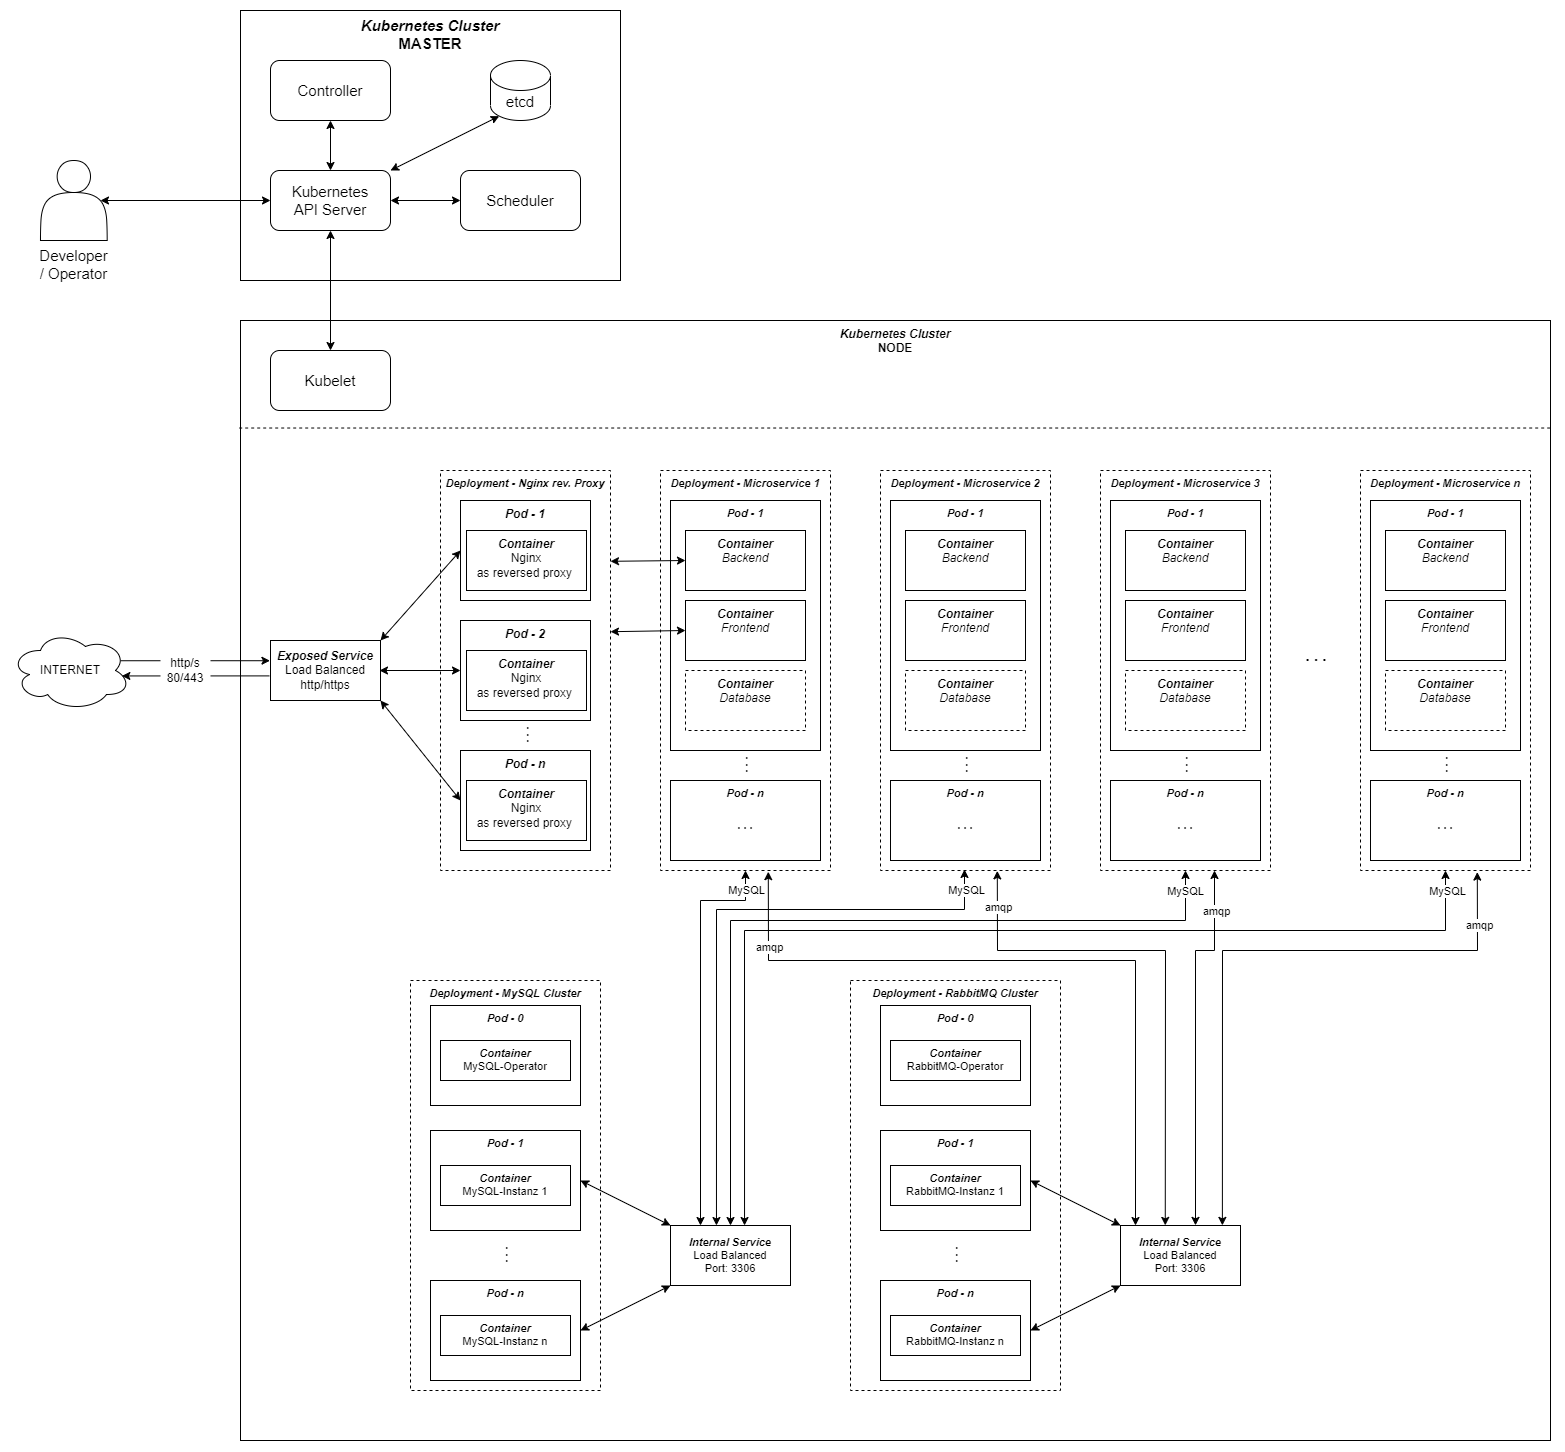
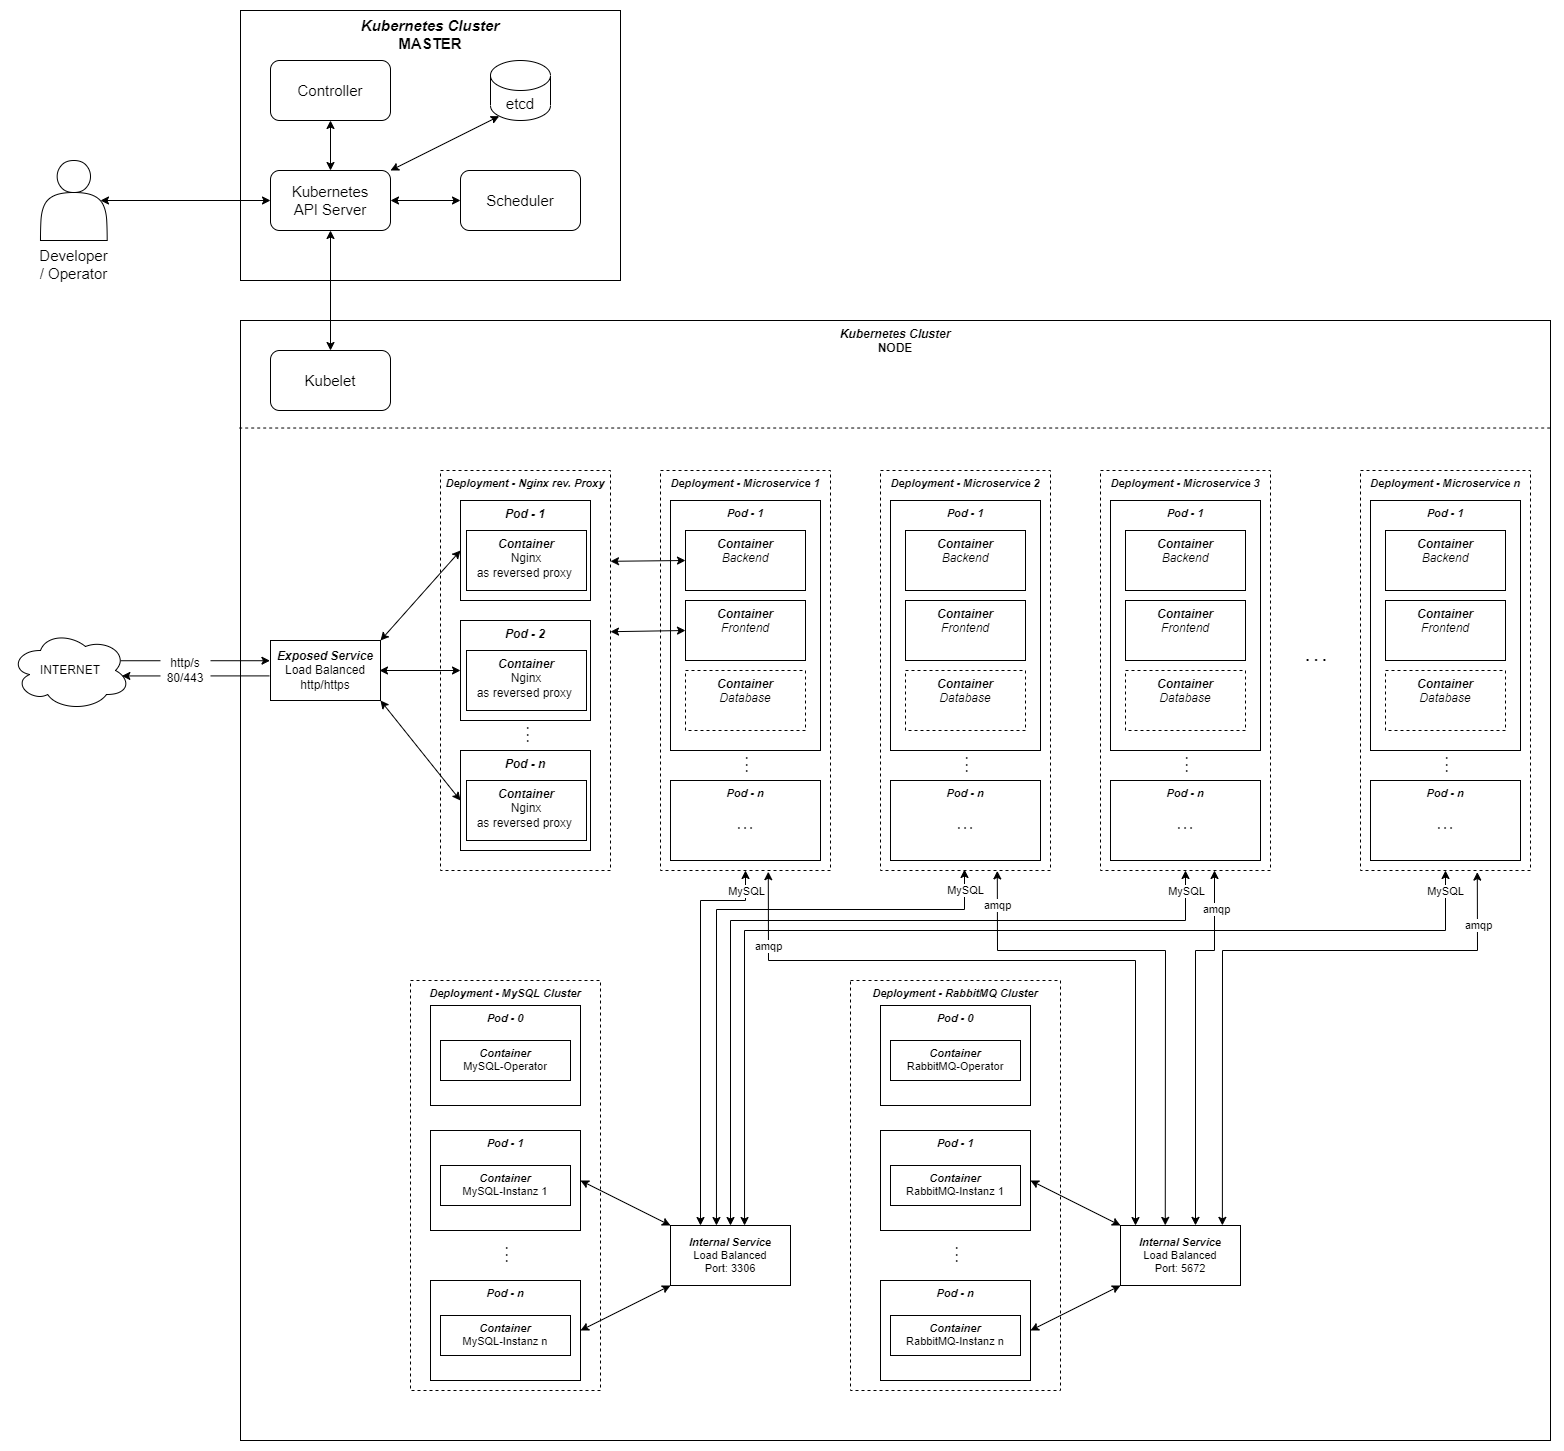
Fixed wrong port in image

diff --git a/_einleitung/projektuebersicht.md b/_einleitung/projektuebersicht.md
@@ -100,27 +100,27 @@ Alle Events, die über RabbitMQ gesendet werden, müssen in einem vorgegebenen J
 
 - Externe Qualitätsanforderungen (z.B. Performance, Sicherheit, Zuverlässigkeit, Benutzerfreundlichkeit)
 
-Qualitätsmerkmal | sehr gut | gut | normal | nicht relevant
----|---|---|---|---
-**Zuverlässigkeit** | | | | |
-Fehlertoleranz |X|-|-|-|
-Wiederherstellbarkeit |X|-|-|-|
-Ordnungsmäßigkeit |X|-|-|-|
-Richtigkeit |X|-|-|-|
-Konformität |-|X|-|-|
-**Benutzerfreundlichkeit** | | | | |
-Installierbarkeit |-|-|X|-|
-Verständlichkeit |X|-|-|-|
-Erlernbarkeit |-|X|-|-|
-Bedienbarkeit |-|X|-|-|
-**Performance** | | | | |
-Zeitverhalten |-|-|X|-|
-Effizienz|-|-|-|X|
-**Sicherheit** | | | | |
-Analysierbarkeit |X|-|-|-|
-Modifizierbarkeit |-|-|-|X|
-Stabilität |X|-|-|-|
-Prüfbarkeit |X|-|-|-|
+| Qualitätsmerkmal           | sehr gut | gut | normal | nicht relevant |
+|----------------------------|----------|-----|--------|----------------|
+| **Zuverlässigkeit**        |          |     |        |                |
+| Fehlertoleranz             | X        | -   | -      | -              |
+| Wiederherstellbarkeit      | X        | -   | -      | -              |
+| Ordnungsmäßigkeit          | X        | -   | -      | -              |
+| Richtigkeit                | X        | -   | -      | -              |
+| Konformität                | -        | X   | -      | -              |
+| **Benutzerfreundlichkeit** |          |     |        |                |
+| Installierbarkeit          | -        | -   | X      | -              |
+| Verständlichkeit           | X        | -   | -      | -              |
+| Erlernbarkeit              | -        | X   | -      | -              |
+| Bedienbarkeit              | -        | X   | -      | -              |
+| **Performance**            |          |     |        |                |
+| Zeitverhalten              | -        | -   | X      | -              |
+| Effizienz                  | -        | -   | x      | -              |
+| **Sicherheit**             |          |     |        |                |
+| Analysierbarkeit           | X        | -   | -      | -              |
+| Modifizierbarkeit          | -        | -   | X      | -              |
+| Stabilität                 | X        | -   | -      | -              |
+| Prüfbarkeit                | X        | -   | -      | -              |
 
 
 ## Glossar 
